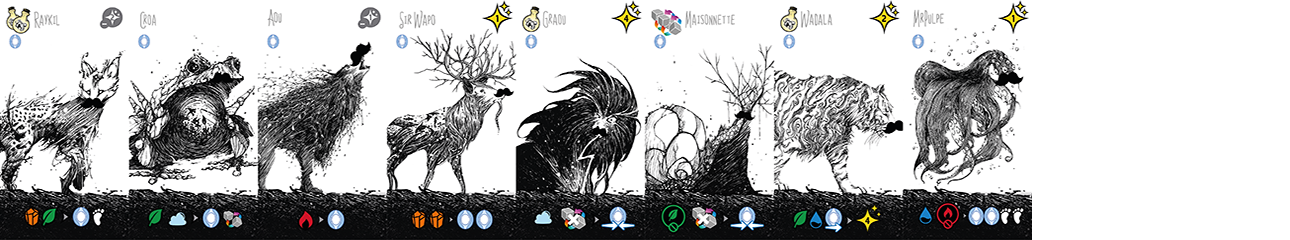
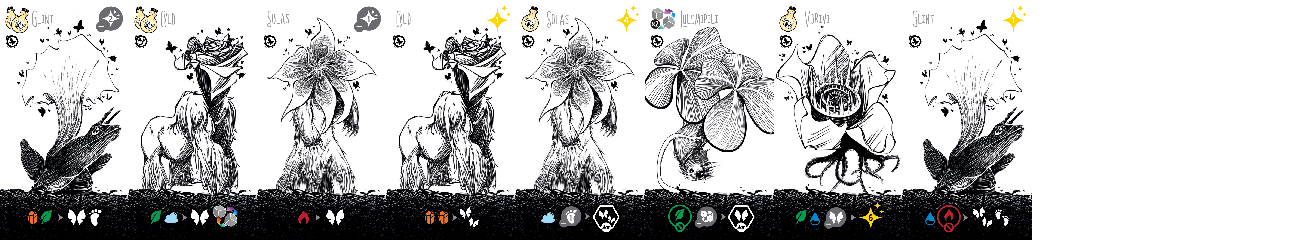
exp companion art

diff --git a/glowexpansion.js b/glowexpansion.js
@@ -1409,37 +1409,40 @@ function getEffectTooltip(effect) {
     if (!effect) {
         return null;
     }
+    var effectConditions = effect.conditions.filter(function (condition) { return condition > -10; });
+    var remainingConditions = effect.conditions.filter(function (condition) { return condition <= -10; });
     var conditions = null;
-    if (effect.conditions.every(function (condition) { return condition > 200; }) && effect.conditions.length == 2) {
-        var message = effect.conditions[0] == effect.conditions[1] ?
+    if (effectConditions.every(function (condition) { return condition > 200; }) && effectConditions.length == 2) {
+        var message = effectConditions[0] == effectConditions[1] ?
             _("Exactly ${min} different element symbols on dice triggers the effect.") :
             _("Between ${min} and ${max} different element symbols on dice triggers the effect.");
         conditions = dojo.string.substitute(message, {
-            min: "<strong>" + (effect.conditions[0] - 200) + "</strong>",
-            max: "<strong>" + (effect.conditions[1] - 200) + "</strong>",
+            min: "<strong>" + (effectConditions[0] - 200) + "</strong>",
+            max: "<strong>" + (effectConditions[1] - 200) + "</strong>",
         });
     }
-    else if (effect.conditions.every(function (condition) { return condition > 0; })) {
+    else if (effectConditions.every(function (condition) { return condition > 0; })) {
         conditions = dojo.string.substitute(_("${symbols} triggers the effect."), {
-            symbols: formatTextIcons(effect.conditions.map(function (condition) { return "[symbol" + condition + "]"; }).join(''))
+            symbols: formatTextIcons(effectConditions.map(function (condition) { return "[symbol" + condition + "]"; }).join(''))
         });
     }
-    else if (effect.conditions.every(function (condition) { return condition == 0; })) {
-        conditions = dojo.string.substitute(formatTextIcons(effect.conditions.map(function (_) { return "[symbol0]"; }).join('')) + ' : ' + _("any ${number} identical symbols."), {
-            number: "<strong>" + effect.conditions.length + "</strong>"
+    else if (effectConditions.every(function (condition) { return condition == 0; })) {
+        conditions = dojo.string.substitute(formatTextIcons(effectConditions.map(function (_) { return "[symbol0]"; }).join('')) + ' : ' + _("any ${number} identical symbols."), {
+            number: "<strong>" + effectConditions.length + "</strong>"
         });
     }
-    else if (effect.conditions.every(function (condition) { return condition < 0; })) {
+    else if (effectConditions.every(function (condition) { return condition < 0; })) {
         conditions = dojo.string.substitute(_("If the symbols ${symbols} are not present on any of the dice, the effect is triggered."), {
-            symbols: formatTextIcons(effect.conditions.map(function (condition) { return "[symbol" + -condition + "]"; }).join(''))
+            symbols: formatTextIcons(effectConditions.map(function (condition) { return "[symbol" + -condition + "]"; }).join(''))
         });
     }
-    else if (effect.conditions.some(function (condition) { return condition > 0; }) && effect.conditions.some(function (condition) { return condition < 0; })) {
+    else if (effectConditions.some(function (condition) { return condition > 0; }) && effectConditions.some(function (condition) { return condition < 0; })) {
         conditions = dojo.string.substitute(_("If the symbols ${forbiddenSymbols} are not present on any of the dice, ${symbols} triggers the effect."), {
-            forbiddenSymbols: formatTextIcons(effect.conditions.filter(function (condition) { return condition < 0; }).map(function (condition) { return "[symbol" + -condition + "]"; }).join('')),
-            symbols: formatTextIcons(effect.conditions.filter(function (condition) { return condition > 0; }).map(function (condition) { return "[symbol" + condition + "]"; }).join('')),
+            forbiddenSymbols: formatTextIcons(effectConditions.filter(function (condition) { return condition < 0; }).map(function (condition) { return "[symbol" + -condition + "]"; }).join('')),
+            symbols: formatTextIcons(effectConditions.filter(function (condition) { return condition > 0; }).map(function (condition) { return "[symbol" + condition + "]"; }).join('')),
         });
     }
+    remainingConditions.forEach(function (effect) { return conditions += "<br>" + getEffectExplanation(effect); });
     return "\n    <div class=\"tooltip-effect-title\">" + _("Conditions") + "</div>\n    " + conditions + "\n    <hr>\n    <div class=\"tooltip-effect-title\">" + _("Effects") + "</div>\n    " + effect.effects.map(function (effect) { return getEffectExplanation(effect); }).join('<br>') + "\n    ";
 }
 function getAdventurerTooltip(type) {
@@ -1469,7 +1472,7 @@ function getCompanionTooltip(type) {
         case 10: return "<p>" + _("If the player obtains 2 fire symbols, Xar\u2019gok is sent to the cemetery and the spells are cast:") + "</p>\n        <ol class=\"help-list\"><li>" + _("1. The other players take a spell token that they place facedown in front of them.") + "</li>\n        <li>" + _("2. At the beginning of the next round, the spell tokens are revealed.") + "</li>\n        <li>" + _("3. When a player fulfils the condition indicated on their token, the spell is triggered: its effect is applied and the token is replaced in the box.") + "</li></ol>\n        <p>" + _("<b>A spell token works in exactly the same way as a card:</b> the player chooses the order in which they resolve their cards and their spell, the trigger conditions and the effects are the same as those of the cards.") + "</p>\n        <p><div class=\"help-special-spell\"></div>" + _("Only this spell token is played differently: it must always be placed on the last companion to be recruited. The player must move the spell token each time he recruits a new companion.") + "</p>\n        <p>" + _("When the spell is triggered, the companion on which it is placed is sent to the cemetery (without applying any effects, even if it has a skull) and the player replaces the token in the box. As the player can choose the order in which the cards and the spell are resolved, they can benefit from the targeted character\u2019s effect (if their dice allow them to) before it is sent to the cemetery.") + "</p>";
         case 20: return "<p>" + _("When a player takes Kaar, they take the small black die from the reserve pool, roll it and place it on the space of the meeting track indicated by the result of the die. If the result indicates an empty space, the player must reroll the die. If no player takes Kaar, the black die does not come into play.") + "</p>\n        <p>" + _("During the rest of the game, the player with Kaar is immunized against the curse of the black die. If the black die is placed in front of the companion they want to take, they can move it in front of another companion of their choice.") + "</p>\n        <p>" + _("<b>Curse of the black die:</b> In each round, the player who rolls the black die with their other dice must apply its result: according to the obtained symbol, every other die of the player with the same symbol is not counted in the final result. If the player obtains -2 bursts of light, they move back as many spaces on the score track.") + "</p>\n        <p style=\"color: #D4111F;\">" + _("<b>Important:</b> the black die remains in play until the end of the game, even if Kaar is sent to the cemetery.") + "</p>";
         case 41: return "<p>" + _("If the player obtains an air symbol, they immediately discard Cromaug and can take another companion of their choice from the cemetery that they place in front of them. The chosen companion becomes the last companion to be recruited.") + "</p>\n        <p>" + _("If it is a Sketal, they take the additional die indicated by its power, if it is available in the reserve pool, and can roll it from the next round. If it is Kaar, the black die comes into play.") + "</p>\n        <p>" + _("If the previously obtained result of the dice allows it, they can immediately trigger the effect of this new companion.") + "</p>";
-        case 107: return "<p>" + _("go back to 10VP (record how many VP you went back), play normally and retrieve your VPs at the end.") + "</p>"; // TODO
+        case 107: return "<p>" + _("TODO CRONOS") + "</p>"; // TODO
     }
     return null;
 }

diff --git a/src/stock-utils.ts b/src/stock-utils.ts
@@ -187,34 +187,39 @@ function getEffectTooltip(effect: Effect) {
         return null;
     }
 
+    const effectConditions = effect.conditions.filter(condition => condition > -10);
+    const remainingConditions = effect.conditions.filter(condition => condition <= -10);
+
     let conditions = null;
-    if (effect.conditions.every(condition => condition > 200) && effect.conditions.length == 2) {
-        const message = effect.conditions[0] == effect.conditions[1] ?
+    if (effectConditions.every(condition => condition > 200) && effectConditions.length == 2) {
+        const message = effectConditions[0] == effectConditions[1] ?
             _("Exactly ${min} different element symbols on dice triggers the effect.") :
             _("Between ${min} and ${max} different element symbols on dice triggers the effect.");
 
         conditions = dojo.string.substitute(message, { 
-            min: `<strong>${effect.conditions[0] - 200}</strong>` ,
-            max: `<strong>${effect.conditions[1] - 200}</strong>` ,
+            min: `<strong>${effectConditions[0] - 200}</strong>` ,
+            max: `<strong>${effectConditions[1] - 200}</strong>` ,
         });
-    } else if (effect.conditions.every(condition => condition > 0)) {
+    } else if (effectConditions.every(condition => condition > 0)) {
         conditions = dojo.string.substitute(_("${symbols} triggers the effect."), { 
-            symbols: formatTextIcons(effect.conditions.map(condition => `[symbol${condition}]`).join('')) 
+            symbols: formatTextIcons(effectConditions.map(condition => `[symbol${condition}]`).join('')) 
         });
-    } else if (effect.conditions.every(condition => condition == 0)) {
-        conditions = dojo.string.substitute(formatTextIcons(effect.conditions.map(_ => `[symbol0]`).join('')) + ' : ' + _("any ${number} identical symbols."), { 
-            number: `<strong>${effect.conditions.length}</strong>` 
+    } else if (effectConditions.every(condition => condition == 0)) {
+        conditions = dojo.string.substitute(formatTextIcons(effectConditions.map(_ => `[symbol0]`).join('')) + ' : ' + _("any ${number} identical symbols."), { 
+            number: `<strong>${effectConditions.length}</strong>` 
         });
-    } else if (effect.conditions.every(condition => condition < 0)) {
+    } else if (effectConditions.every(condition => condition < 0)) {
         conditions = dojo.string.substitute(_("If the symbols ${symbols} are not present on any of the dice, the effect is triggered."), { 
-            symbols: formatTextIcons(effect.conditions.map(condition => `[symbol${-condition}]`).join('')) 
+            symbols: formatTextIcons(effectConditions.map(condition => `[symbol${-condition}]`).join('')) 
         });
-    } else if (effect.conditions.some(condition => condition > 0) && effect.conditions.some(condition => condition < 0)) {
+    } else if (effectConditions.some(condition => condition > 0) && effectConditions.some(condition => condition < 0)) {
         conditions = dojo.string.substitute(_("If the symbols ${forbiddenSymbols} are not present on any of the dice, ${symbols} triggers the effect."), { 
-            forbiddenSymbols: formatTextIcons(effect.conditions.filter(condition => condition < 0).map(condition => `[symbol${-condition}]`).join('')),  
-            symbols: formatTextIcons(effect.conditions.filter(condition => condition > 0).map(condition => `[symbol${condition}]`).join('')) ,
+            forbiddenSymbols: formatTextIcons(effectConditions.filter(condition => condition < 0).map(condition => `[symbol${-condition}]`).join('')),  
+            symbols: formatTextIcons(effectConditions.filter(condition => condition > 0).map(condition => `[symbol${condition}]`).join('')) ,
         });
     }
+
+    remainingConditions.forEach(effect => conditions += `<br>${getEffectExplanation(effect)}`);
     
     return `
     <div class="tooltip-effect-title">${_("Conditions")}</div>
@@ -265,7 +270,7 @@ function getCompanionTooltip(type: number) {
         <p>` + _(`If it is a Sketal, they take the additional die indicated by its power, if it is available in the reserve pool, and can roll it from the next round. If it is Kaar, the black die comes into play.`) + `</p>
         <p>` + _(`If the previously obtained result of the dice allows it, they can immediately trigger the effect of this new companion.`) + `</p>`;
 
-        case 107: return `<p>` + _(`go back to 10VP (record how many VP you went back), play normally and retrieve your VPs at the end.`) + `</p>`; // TODO
+        case 107: return `<p>` + _(`TODO CRONOS`) + `</p>`; // TODO
     }
     return null;
 }

diff --git a/material.inc.php b/material.inc.php
@@ -120,15 +120,15 @@ $this->COMPANIONS_EXPANSION1_SETS = [
   1 => [
     'adds' => [
       // A
-      101 => new CompanionCard('Drak', 0, new Effect([203, 203], [-41, 103]), 2),
-      102 => new CompanionCard('Goerge', 3, new Effect([204, 204], [22])),
-      103 => new CompanionCard('Oreokappa', 2, new Effect([201, 202], [42])),
+      101 => new CompanionCard("Li'Lan", 0, new Effect([203, 203], [-41, 105])),
+      102 => new CompanionCard('Phyrene', 2, new Effect([204, 204], [23])),
+      103 => new CompanionCard('Celes', 2, new Effect([201, 202], [42])),
       104 => new CompanionCard('Sketal', 0, new Effect([-3, -2], [33, 12]), 0, 0, true, 6),
       // B
-      105 => new CompanionCard('Oapak', 0, new Effect([203, 203], [103, 12])),
-      106 => new CompanionCard('Merveilleux', 1, new Effect([-5], [-22, 108])),
+      105 => new CompanionCard('Celes', 0, new Effect([203, 203], [103, 12])),
+      106 => new CompanionCard('Esul', 1, new Effect([-5, -22], [108]), 2),
       107 => new CompanionCard('Crolos', 0, null),
-      108 => new CompanionCard('Torpadgrue', 4, new Effect([201, 202], [37, 103])),
+      108 => new CompanionCard('Phyrene', 4, new Effect([201, 202], [37, 103])),
     ],
     'removes' => [
       // A
@@ -141,15 +141,15 @@ $this->COMPANIONS_EXPANSION1_SETS = [
   2 => [
     'adds' => [
       // A
-      201 => new CompanionCard('Raykil', -2, new Effect([5, 1], [51, 21]), 2),
-      202 => new CompanionCard('Croa', 0, new Effect([1, 3], [51, 41])),
-      203 => new CompanionCard('Aou', -1, new Effect([4], [51])),
-      204 => new CompanionCard('Sir Wapo', 1, new Effect([5, 5], [52])),
+      201 => new CompanionCard('Glint', -2, new Effect([5, 1], [51, 21]), 2),
+      202 => new CompanionCard('Cyld', 0, new Effect([1, 3], [51, 41])),
+      203 => new CompanionCard('Solas', -1, new Effect([4], [51])),
+      204 => new CompanionCard('Cyld', 1, new Effect([5, 5], [52])),
       // B
-      205 => new CompanionCard('Graou', 4, new Effect([3], [-41, 50]), 1),
-      206 => new CompanionCard('Maisonnette', 0, new Effect([-1], [-41, 50]), 0, 2),
-      207 => new CompanionCard('Wabala', 2, new Effect([1, 2], [-51, 104]), 1),
-      208 => new CompanionCard('MrPulpe', 1, new Effect([2, -4], [52, 22])),
+      205 => new CompanionCard('Solas', 4, new Effect([3, -41], [50]), 1),
+      206 => new CompanionCard('Lulumipili', 0, new Effect([-1, -41], [50]), 0, 2),
+      207 => new CompanionCard('Vorivi', 2, new Effect([1, 2, -51], [106]), 1),
+      208 => new CompanionCard('Glint', 1, new Effect([2, -4], [52, 22])),
     ],
     'removes' => [
       // A
@@ -162,15 +162,15 @@ $this->COMPANIONS_EXPANSION1_SETS = [
   3 => [
     'adds' => [
       // A
-      301 => new CompanionCard('Lovd', -3, new Effect([3, 4], [103, 12])),
-      302 => new CompanionCard('Zzibela', 0, new Effect([1, -3], [22]), 1),
-      303 => new CompanionCard('Briki', 9, new Effect([1, 5], [33, -41]), 1),
-      304 => new CompanionCard('Gok\'Xar', 2, new Effect([-2], [-21, 104])),
+      301 => new CompanionCard('Knif', -4, new Effect([3, 4], [104, 11])),
+      302 => new CompanionCard('Ki Dun', 0, new Effect([1, -3], [22])),
+      303 => new CompanionCard('Ty Fla', 9, new Effect([1, 5, -41], [33, -103]), 1),
+      304 => new CompanionCard('Ma Vos', 2, new Effect([-2, -21], [104])),
       // B
-      305 => new CompanionCard('Baby Snarexe', 0, new Effect([3, 1], [-12, 33, 107])),
-      306 => new CompanionCard('Snako', 2, new Effect([5, 4], [-41, 12]), 3),
-      307 => new CompanionCard('Lilipili', 0, new Effect([5, 2], [42, 102]), 0, 1),
-      308 => new CompanionCard('Pervi', 3, new Effect([2, 4], [22, -42])),
+      305 => new CompanionCard('Wo Shan', 0, new Effect([3, 1, -12], [33, 110])),
+      306 => new CompanionCard('Ty Fla', 1, new Effect([5, 4, -41], [11, 102]), 3),
+      307 => new CompanionCard('Lumipili', 0, new Effect([5, 2], [103, 41]), 0, 1),
+      308 => new CompanionCard('Wo Shan', 2, new Effect([2, 4, -11], [23])),
     ],
     'removes' => [
       // A

diff --git a/modules/php/utils.php b/modules/php/utils.php
@@ -1228,6 +1228,12 @@ trait UtilTrait {
             }
         }
 
+        foreach($cardEffect->conditions as $effect) {
+            if ($effect <= -10) {
+                $this->applyEffect($playerId, $effect, $cardType, $card, $dieId, $tokenId);
+            }
+        }
+
         if ($cardType == 2 && $spellCard->type != COMPANION_SPELL) { // spells are discarded after usage
             $this->discardSpell($playerId, $spellCard);
         }
